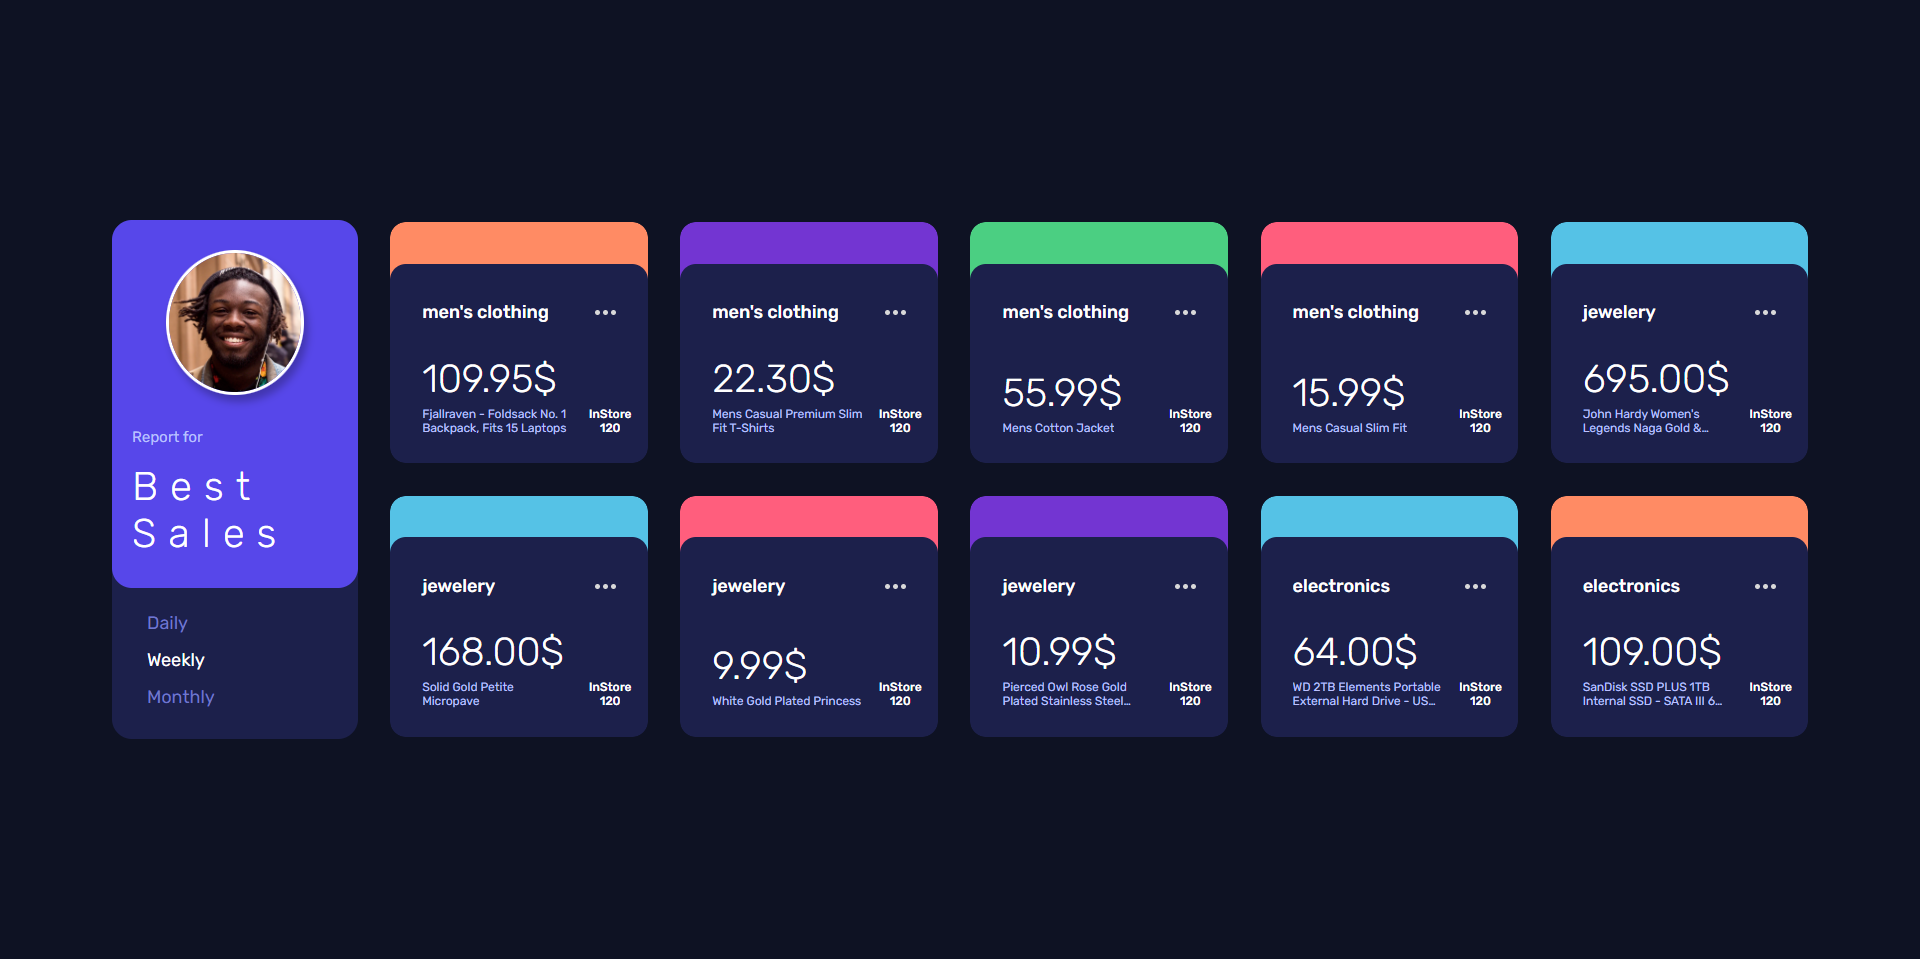
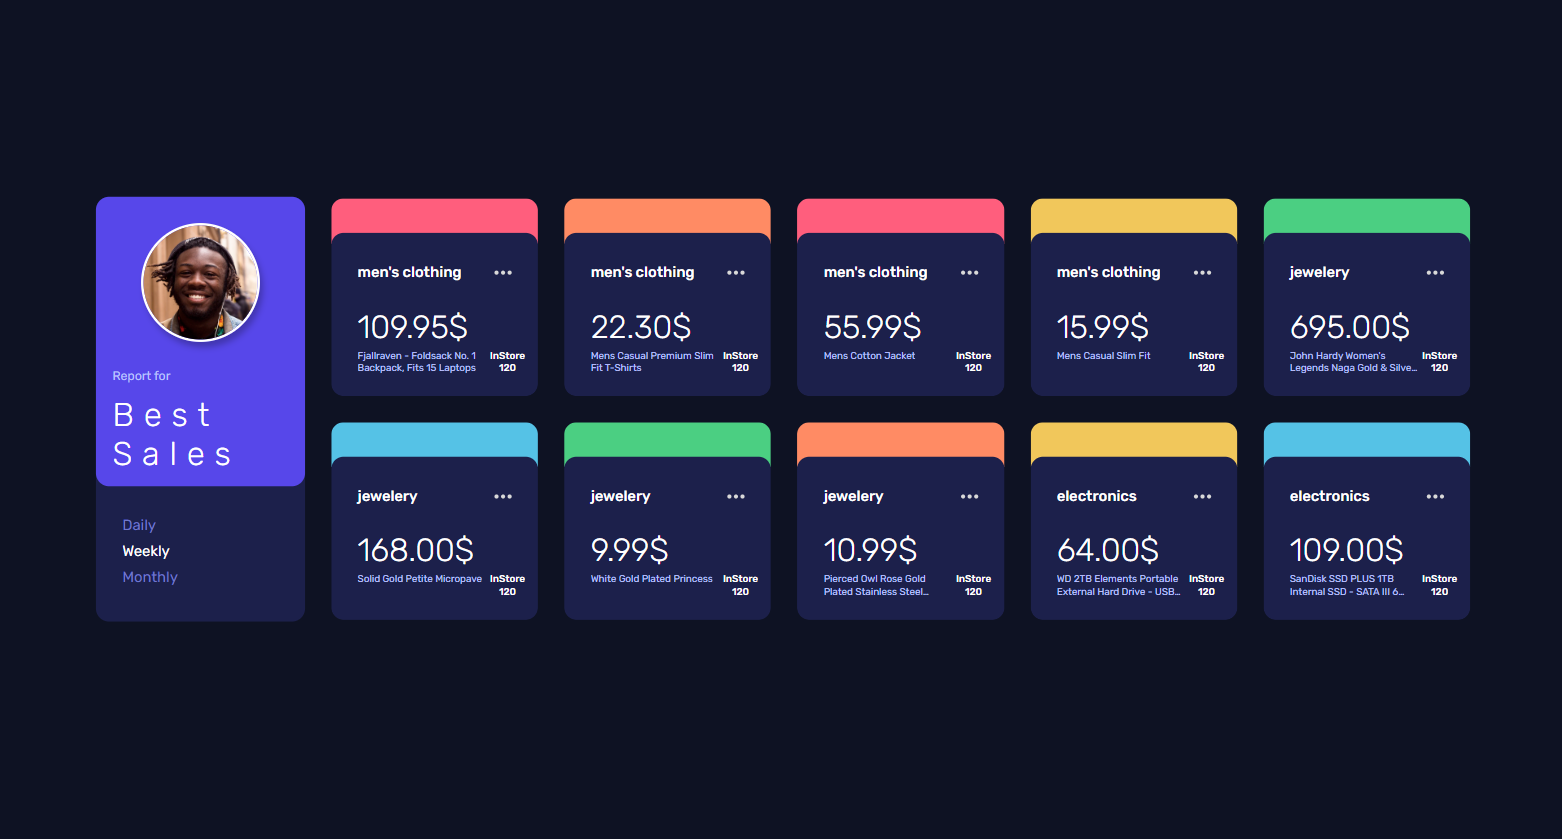
fixed some ui issues

Changed region(s): [[0.0307, 0.2169, 0.9526, 0.7747], [0.799, 0.3099, 0.8604, 0.3409]]

diff --git a/src/styles/user-card.scss b/src/styles/user-card.scss
@@ -1,9 +1,9 @@
 .user-card {
-  height: fit-content;
+  height: 203px;
   background-color: #1c204b;
   display: flex;
   flex-direction: column;
-  border-radius: 20px;
+  border-radius: 16px;
   align-self: baseline;
 
   width: 100%;
@@ -18,10 +18,9 @@
     background-color: #5747ea;
     display: flex;
     flex-direction: row;
-    align-items: center;
     justify-content: space-evenly;
-    border-radius: 20px;
-    padding: 30px 20px;
+    border-radius: 16px;
+    padding: 2rem 1.25rem 1rem;
 
     @media (min-width: 480px) {
       justify-content: center;
@@ -40,9 +39,10 @@
       border-radius: 50%;
       position: relative;
       border: 3px solid #ffffff;
+      align-self: center;
 
       @media (min-width: 976px) {
-        width: 138px;
+        width: 145px;
         height: 145px;
         box-shadow: 4px 7px 8px 0px #00000040;
       }
@@ -69,8 +69,7 @@
       gap: 0.25rem;
 
       @media (min-width: 976px) {
-        gap: 1rem;
-        padding-right: 50px;
+        gap: 0.875rem;
       }
     }
 
@@ -100,13 +99,13 @@
     flex-grow: 1;
     display: flex;
     flex-direction: row;
-    justify-content: space-between;
-    gap: 1rem;
-    padding: 25px 35px 30px;
+    justify-content: space-evenly;
+    align-items: center;
 
     @media (min-width: 976px) {
       flex-direction: column;
-      justify-content: center;
+      padding: 1.625rem 2rem 2rem;
+      align-items: baseline;
     }
 
     .user-card-link {

diff --git a/src/styles/card.scss b/src/styles/card.scss
@@ -1,7 +1,7 @@
 .cards-container {
   height: 100%;
   display: grid;
-  gap: 2.05rem;
+  gap: 2rem;
   flex-grow: 1;
   width: 100%;
 
@@ -15,21 +15,24 @@
   @media (min-width: 976px) {
     grid-template-columns: repeat(auto-fit, minmax(255px, 1fr));
   }
+
+  @media (min-width: 1500px) {
+    grid-template-columns: repeat(auto-fit, minmax(252px, 1fr));
+  }
 }
 
 .card {
   position: relative;
   overflow: hidden;
-  border-radius: 16px;
+  border-radius: 15px;
   width: 100%;
 
   .card-background {
     position: absolute;
     left: 0;
     top: 0;
-    height: 66.66667%;
+    height: 3.4rem;
     width: 100%;
-    border-radius: 16px;
     z-index: -10;
   }
 
@@ -39,14 +42,13 @@
     min-height: calc(100% - 2.6rem);
     height: fit-content;
     width: 100%;
-    border-radius: 16px;
+    border-radius: 15px;
     padding-top: 2.4rem;
     padding-bottom: 1.75rem;
     padding-left: 2rem;
     padding-right: 1rem;
     display: flex;
     flex-direction: column;
-    justify-content: space-between;
     gap: 0.5rem;
 
     @media (min-width: 976px) {
@@ -80,10 +82,9 @@
 
     .card-body {
       display: flex;
-      flex-direction: row;
+      flex-direction: column;
       justify-content: space-between;
-      align-items: flex-end;
-      gap: 1rem;
+      gap: 0.3rem;
     }
   }
 }

diff --git a/src/styles/item.scss b/src/styles/item.scss
@@ -14,29 +14,26 @@
   gap: 1.5rem;
 
   @media (min-width: 976px) {
-    flex-direction: column;
     align-items: start;
     gap: 0.3rem;
   }
+}
+.item-price {
+  font-weight: 300;
+  font-size: 39px;
+  line-height: 46.22px;
+  color: white;
+  display: block;
+}
+.item-title {
+  color: #bbc0ff;
+  line-height: 15.75px;
+  font-size: 10px;
+  font-weight: 400;
 
-  .item-title {
-    color: #bbc0ff;
-    line-height: 15.75px;
-    font-size: 10px;
-    font-weight: 400;
-
-    @media (min-width: 1440px) {
-      font-size: 12px;
-      line-height: 14.22px;
-    }
-  }
-
-  .item-price {
-    font-weight: 300;
-    font-size: 39px;
-    line-height: 46.22px;
-    color: white;
-    display: block;
+  @media (min-width: 1440px) {
+    font-size: 12px;
+    line-height: 14.22px;
   }
 }
 

diff --git a/src/components/Card/CardBody.tsx b/src/components/Card/CardBody.tsx
@@ -15,13 +15,13 @@ type Props = {
 const CardBody: React.FC<Props> = ({ price, title, loading }) => {
   return (
     <div className="card-body">
+      {loading ? <ItemPriceSkeleton /> : <ItemPrice price={price!} />}
       <div className="item-details">
-        {loading ? <ItemPriceSkeleton /> : <ItemPrice price={price!} />}
         {loading ? <ItemTitleSkeleton /> : <ItemTitle title={title!} />}
-      </div>
-      <div className="xl-visible">
-        <ItemStock />
-        <ItemQuantity />
+        <div className="xl-visible">
+          <ItemStock />
+          <ItemQuantity />
+        </div>
       </div>
     </div>
   );

diff --git a/src/styles/style.scss b/src/styles/style.scss
@@ -1,7 +1,6 @@
 @import "./variables.scss";
 @import "./default-styles.scss";
 @import "./user-card.scss";
-@import "./user-card.scss";
 @import "./card.scss";
 @import "./item.scss";
 @import "./skeletons.scss";
@@ -22,10 +21,11 @@
 }
 
 .main {
-  min-height: 100vh;
   display: flex;
   align-items: center;
   justify-content: center;
+  align-items: center;
+  min-height: 100vh;
 
   padding: 2rem 1.5rem 3rem;
 
@@ -34,11 +34,7 @@
   }
 
   @media (min-width: 976px) {
-    padding: 5rem;
-  }
-
-  @media (min-width: 1440px) {
-    padding: 6.5rem;
+    padding: 5rem 7rem 5rem 7.32rem;
   }
 }
 

diff --git a/src/components/UserCard.tsx b/src/components/UserCard.tsx
@@ -18,9 +18,7 @@ const UserCard = () => {
         </div>
         <div>
           <span>Report for</span>
-          <span>
-            Best <br className="xl-visible" /> Sales
-          </span>
+          <span>Best Sales</span>
         </div>
       </div>
       <ul className="user-card-menu">
